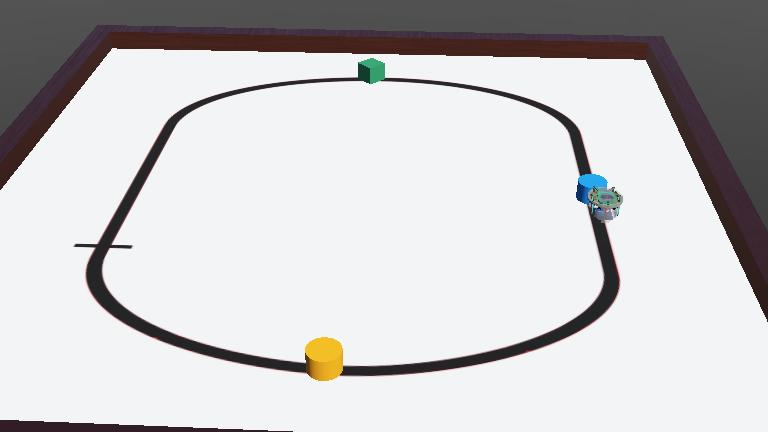
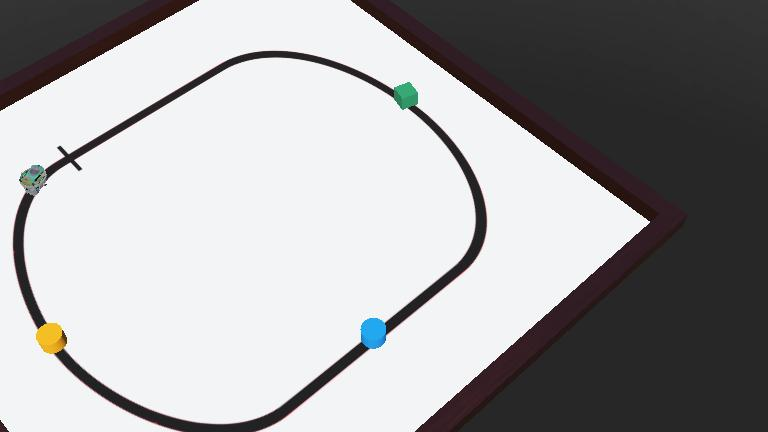
feat(fitness): completely new approach

diff --git a/visualise/mat.py b/visualise/mat.py
@@ -4,18 +4,26 @@ from matplotlib.widgets import Slider, CheckButtons, Button
 import numpy as np
 from matplotlib import colors
 from matplotlib.animation import FuncAnimation
-from mat_utils import brighten_color, get_latest_robot_position_file
+from mat_utils import brighten_color, get_latest_robot_position_folder
 import sys
 
 # --- Initial parameters ---
 directory = "../controllers/supervisorGA_starter/data/"
 if len(sys.argv) > 1:
-    filename = sys.argv[1]
+    arg = sys.argv[1]
+    # if "dir" is -1, takes the 1 and not 0, if "dir" is -2, takes the 2 and not 1, ...
+    try:
+        id = int(arg)
+    except ValueError:
+        pass
+    if isinstance(id, int):
+        foldername = get_latest_robot_position_folder(directory, id=abs(id))
+    else:
+        foldername = str(arg)
 else:
-    filename = get_latest_robot_position_file(directory)
-csv_file = f"{directory}{filename}"
-gen_filename = filename.replace("robot_positions_", "generation_data_")
-gen_csv_file = f"{directory}{gen_filename}"
+    foldername = get_latest_robot_position_folder(directory)
+csv_file = f"{directory}{foldername}/robot_position.csv"
+gen_csv_file = f"{directory}{foldername}/genome_data.csv"
 df_info = pd.read_csv(csv_file, usecols=["generation", "population"])
 df_new_global = None  # for hover annotation
 df_gen_info = pd.read_csv(gen_csv_file)
@@ -47,6 +55,7 @@ def load_generation_mem(generation, pops, step):
         dfg = dfg[dfg["population"].isin(pops)]
     return dfg.iloc[::step]
 
+
 def load_generation_info_mem(generation):
     """Return generation info row for generation."""
     dfg = df_gen_info[df_gen_info["generation"] == generation]
@@ -55,6 +64,7 @@ def load_generation_info_mem(generation):
 
 # --- Plot setup ---
 fig, ax = plt.subplots(figsize=(10, 8))
+fig.canvas.manager.set_window_title(foldername)
 plt.subplots_adjust(left=0.1, bottom=0.40, right=0.7)  # space for widgets
 
 sc = ax.scatter(
@@ -82,7 +92,9 @@ slider_gen = Slider(
 
 # --- Slider for downsampling ---
 ax_down_sample_step = plt.axes([0.1, 0.15, 0.65, 0.03])
-slider_downsample_step = Slider(ax_down_sample_step, "Downsample Step", 1, 50, valinit=initial_step, valstep=1)
+slider_downsample_step = Slider(
+    ax_down_sample_step, "Downsample Step", 1, 50, valinit=initial_step, valstep=1
+)
 
 
 # --- Slider for population (single numeric picker) ---
@@ -159,6 +171,7 @@ annot = ax.annotate(
 )
 annot.set_visible(False)
 
+
 def build_animation_data(generation, selected_pop_list, per_pop_downsample=1):
     """
     Build anim_data and anim_max_frames for the current generation and selection.
@@ -200,6 +213,7 @@ def build_animation_data(generation, selected_pop_list, per_pop_downsample=1):
         slider_anim_frame.set_val(0)  # reset to start
     if anim_max_frames == 0:
         anim_max_frames = 1
+
 
 def update(val):
     """
@@ -259,7 +273,7 @@ def update(val):
     # ax.set_title(
     #     f"Generation {gen} — {len(selected_pops_local)} populations — {len(df_new)} points"
     # )
-    
+
     ax.set_title(
         f"Generation {gen} — {len(selected_pops_local)} populations — {len(df_new)} points",
         pad=20,
@@ -412,6 +426,7 @@ def animate_frame(i):
     slider_anim_frame.set_val(anim_frame)
     return (sc,)
 
+
 def toggle_animation(label):
     # when checkbox toggled
     if animate_check.get_status()[0]:
@@ -424,7 +439,9 @@ def toggle_animation(label):
                 for lbl, state in zip(pop_labels, pop_check.get_status())
                 if state
             ]
-            + [val] if val != -1 else [],
+            + [val]
+            if val != -1
+            else [],
             per_pop_downsample=1,
         )
         step_button.ax.set_visible(True)
@@ -435,6 +452,7 @@ def toggle_animation(label):
         slider_anim_frame.ax.set_visible(False)
         # restore static rendering for current generation & selection
         update(None)
+
 
 def step_once(event):
     # advance one animation frame (works even if not animating)
@@ -448,6 +466,7 @@ def on_anim_slider_changed(val):
     global anim_frame
     anim_frame = int(val)
     render_animation_frame(anim_frame)
+
 
 def update_annot(idx, df_source, x, y):
     """Update annotation text and position."""
@@ -478,6 +497,7 @@ def update_annot(idx, df_source, x, y):
     annot.get_bbox_patch().set_facecolor("white")
     annot.get_bbox_patch().set_alpha(0.9)
 
+
 def on_hover(event):
     if event.inaxes != ax:
         annot.set_visible(False)
@@ -496,6 +516,7 @@ def on_hover(event):
         if annot.get_visible():
             annot.set_visible(False)
             fig.canvas.draw_idle()
+
 
 def on_point_click(event):
     if event.inaxes != ax:
@@ -521,6 +542,7 @@ def on_point_click(event):
             elif status:
                 pop_check.set_active(i)
         update(None)
+
 
 # Connect controls
 slider_gen.on_changed(update)

diff --git a/controllers/supervisorGA_starter/supervisorGA_starter.py b/controllers/supervisorGA_starter/supervisorGA_starter.py
@@ -19,7 +19,8 @@ from ga_parameters import (
     INITIAL_TRANS,
     CROSSOVER_RATE,
     TOURNAMENT_K,
-    MUTATION_RATE
+    MUTATION_RATE,
+    EXPERIMENT_TIME
 )
 
 import time
@@ -28,7 +29,7 @@ class SupervisorGA:
         # Simulation Parameters
         # Please, do not change these parameters
         self.time_step = 32  # ms
-        self.time_experiment = 30  # s
+        self.time_experiment = EXPERIMENT_TIME  # s
 
         # Initiate Supervisor Module
         self.supervisor = Supervisor()
@@ -75,7 +76,7 @@ class SupervisorGA:
         self.display.drawText("Fitness (Best - Red)", 0, 0)
         self.display.drawText("Fitness (Average - Green)", 0, 10)
 
-        self.data_filename = ""
+        self.data_foldername = ""
 
     def createRandomPopulation(self, genotype=None):
         # Wait until the supervisor receives the size of the genotypes (number of weights)
@@ -167,7 +168,8 @@ class SupervisorGA:
             state["population"] = population
 
         df = pd.DataFrame(robot_state_list)
-        df.to_csv(self.data_filename, mode="a", index=False, header=not os.path.exists(self.data_filename))
+        robot_pos_filename = self.data_foldername + "robot_position.csv"
+        df.to_csv(robot_pos_filename, mode="a", index=False, header=not os.path.exists(robot_pos_filename))
 
         # Measure fitness
         fitness = self.receivedFitness
@@ -185,8 +187,13 @@ class SupervisorGA:
             }
         )
 
-        genome_filename = self.data_filename.replace("robot_position", "genome_data")
+        genome_filename = self.data_foldername + "genome_data.csv"
         df_genome.to_csv(genome_filename, mode="a", index=False, header=not os.path.exists(genome_filename))
+        os.makedirs(self.data_foldername + "genomes/genotype/gen{}".format(generation), exist_ok=True)
+        numpy.save(
+            self.data_foldername + "genomes/genotype/gen{}/g{}pop{}.npy".format(generation, generation, population),
+            genotype,
+        )
 
         del robot_state_list
         del df
@@ -213,6 +220,10 @@ class SupervisorGA:
         # Evaluation genotype
         self.run_seconds(self.time_experiment)
 
+        # Measure fitness
+        fitness = self.receivedFitness
+        print(f"X.Fitness: {fitness:.2f}")
+
     def run_optimization(self):
         # Wait until the number of weights is updated
         while self.num_weights == 0:
@@ -221,7 +232,7 @@ class SupervisorGA:
 
         print("starting GA optimization ...\n")
         # Time for filename
-        self.data_filename = "data/robot_position_{}.csv".format(time.strftime("%Y%m%d-%H%M%S"))
+        self.data_foldername = "data/{}/".format(time.strftime("%Y%m%d-%H%M%S"))
         # store GA hyperparameters
         hyperparameters = {
             "num_generations": self.num_generations,
@@ -231,7 +242,10 @@ class SupervisorGA:
             "tournament_k": TOURNAMENT_K,
             "mutation_rate": MUTATION_RATE,
         }
-        with open(self.data_filename.replace("robot_position", "ga_parameters").replace(".csv", ".json"), "w") as f:
+        os.makedirs(self.data_foldername, exist_ok=True)
+        os.makedirs(self.data_foldername + "genomes/", exist_ok=True)
+        ga_params_filename = self.data_foldername + "ga_parameters.json"
+        with open(ga_params_filename, "w") as f:
             json.dump(hyperparameters, f, indent=4)
 
         # For each Generation
@@ -260,7 +274,7 @@ class SupervisorGA:
                     current_population, self.num_elite
                 )
 
-        print(f"GA optimization terminated, saved data to {self.data_filename}\n")
+        print(f"GA optimization terminated, saved data to {self.data_foldername}\n")
 
     def draw_scaled_line(self, generation, y1, y2):
         # Define the scale of the fitness plot
@@ -309,7 +323,12 @@ if __name__ == "__main__":
                 "Demo: (R|r)un Best Individual or (S|s)earch for New Best Individual:"
             )
         elif resp == 81 or resp == 65619:  # Q or q key
-            gaModel.run_demo("Best_reference.npy")
+            gaModel.run_demo("g5pop0.npy")
+            print(
+                "Reference: (R|r)un Best Individual or (S|s)earch for New Best Individual:"
+            )
+        elif resp == 80 or resp == 65619:  # P or p key
+            gaModel.run_demo("bad_bf.npy")
             print(
                 "Reference: (R|r)un Best Individual or (S|s)earch for New Best Individual:"
             )

diff --git a/controllers/epuck_starter/epuck_starter.py b/controllers/epuck_starter/epuck_starter.py
@@ -228,30 +228,33 @@ class Controller:
         # self.velocity_left and self.velocity_right are in range [-1, 1]
 
         FOLLOW_LINE_WEIGHT = 1
-        OBSTACLE_AVOIDANCE_WEIGHT = 0.10
+        OBSTACLE_AVOIDANCE_WEIGHT = 0.15
 
         printing = self.is_printing()
 
         forwardFitness = (self.velocity_left + self.velocity_right) / 2
-        followLineFitness = max(0.4, gs_left - gs_right)
+        if forwardFitness > 0:
+            forwardFitness = forwardFitness ** (1/2)
+        followLineFitness = max(0.4, gs_right)
+        followLineFitness -= max(0.2, gs_left)
         avoidCollisionFitness = 0
         for ds in self.inputs[3:11]:
-            avoidCollisionFitness = max(avoidCollisionFitness, ds)
-        # if avoidCollisionFitness > 0:
-        #     self.steps_avoiding += 1
-        # else:
-        #     self.steps_avoiding = 0
-        spinningFitness = 1 - (abs(self.velocity_left - self.velocity_right) / 2) ** (1/5)
+            avoidCollisionFitness += ds
+        avoidCollisionFitness = min(1, avoidCollisionFitness)
+        if avoidCollisionFitness > 0:
+            self.steps_avoiding += 1
+        else:
+            if self.steps_avoiding > 0:
+                self.steps_avoiding -= 2
+            else:
+                self.steps_avoiding = 0
+        wheelDiff = abs(self.velocity_left - self.velocity_right) / 2
+        spinningFitness = (2 - 3 ** (wheelDiff)) / 1 # 0.51 - 0.64
+        # spinningFitness = (3 - 3 ** (wheelDiff)) / 2 # 0.53 - 0.68
 
         lineFitness = forwardFitness * followLineFitness * spinningFitness * (1 - avoidCollisionFitness)
-        collisionFitness = 1
-        if avoidCollisionFitness > 0.2:
-            collisionFitness *= max(1, -math.log2(avoidCollisionFitness))
-        else:
-            collisionFitness *= 0
-
-        lineFitness *= FOLLOW_LINE_WEIGHT
-        collisionFitness *= OBSTACLE_AVOIDANCE_WEIGHT
+        collisionFitness = avoidCollisionFitness * OBSTACLE_AVOIDANCE_WEIGHT
+        # * max(0.8, min(1, (1.2 - self.steps_avoiding / 1000)))
 
         ### Define the fitness function of this iteration which should be a combination of the previous functions
         combinedFitness = lineFitness + collisionFitness

diff --git a/controllers/supervisorGA_starter/ga_parameters.py b/controllers/supervisorGA_starter/ga_parameters.py
@@ -1,10 +1,12 @@
-NUM_GENERATIONS = 100  # Total number of generations to run
-POPULATION_SIZE = 50  # Total number of individuals in the population
-NUM_ELITE = 8  # Number of elite individuals to carry over to the next generation
+NUM_GENERATIONS = 200  # Total number of generations to run
+POPULATION_SIZE = 30  # Total number of individuals in the population
+NUM_ELITE = 6  # Number of elite individuals to carry over to the next generation
 TOURNAMENT_K = 5  # Number of individuals in tournament selection
 
-CROSSOVER_RATE = 20  # Probability of crossover in percentage
-MUTATION_RATE = 20  # Probability of mutation in percentage
+CROSSOVER_RATE = 50  # Probability of crossover in percentage
+MUTATION_RATE = 30  # Probability of mutation in percentage
+
+EXPERIMENT_TIME = 100  # Duration of each experiment in seconds
 
 INITIAL_TRANS = [0.47, 0.16, 0]
 INITIAL_ROT = [0, 0, 1, 1.57]

diff --git a/visualise/mat_utils.py b/visualise/mat_utils.py
@@ -3,9 +3,16 @@ import colorsys
 import re
 from datetime import datetime
 
-def get_latest_robot_position_file(dir):
-    files = [f for f in os.listdir(dir) if re.match(r"robot_position_\d{8}-\d{6}\.csv$", f)]
-    return max(files, key=lambda f: datetime.strptime(f.split("_")[2].split(".")[0], "%Y%m%d-%H%M%S")) if files else None
+
+def get_latest_robot_position_folder(dir, id=0):
+    files = [f for f in os.listdir(dir) if re.match(r"\d{8}-\d{6}$", f)]
+    files.sort(
+        key=lambda f: datetime.strptime(f, "%Y%m%d-%H%M%S"), reverse=True
+    )
+    if id != 0:
+        return files[id - 1] if len(files) >= id else None
+    return files[0] if files else None
+
 
 def brighten_color(color, factor=0.3):
     r, g, b, a = color

diff --git a/video_script.md b/video_script.md
@@ -1,0 +1,52 @@
+# Video Presentation Requirements
+Your group must submit a 10-minute video showcasing your work. The format is:
+Structure:
+Total Duration: 10 minutes
+Group Size: 4 students
+Presentation Breakdown:
+4 minutes: Two students present the BBR approach.
+4 minutes: The other two students present the ER approach.
+2 minutes: Two students (one from the BBR and one from the ER approach) discuss
+the contrasts and similarities between the two approaches.
+Participation
+Every student in the group must speak during the video. You may use slides, screen
+recordings of simulations, your poster, or annotated visuals to support your
+explanation.
+
+
+# Genetic based training of e-puck to follow a line and avoid obstacles
+
+## Main fitness components
+
+- Following the line (ground sensor on black)
+- Moving forward (wheel spinning faster is better)
+- Avoiding obstacles (using distance sensors)
+- Avoiding spinning in place (wheels turning at different speeds)
+
+##
+
+Here's e-puck, a small mobile robot equipped with ground sensors to detect lines and distance sensors to sense obstacles.
+Today, we're going to see how different approaches can be use to create a controller for that robot.
+
+### BBR
+
+The first method is Behaviour-based Robotics, or BBR. The idea is to design and implement simple behaviours that can be combined to achieve complex tasks.
+For example, we can create a behaviour for following the line, another for avoiding obstacles, and one to join back the line. Each behaviour will generate motor commands based on the sensor inputs.
+
+### ER
+
+#### bullet points
+
+- Arena (line, obstacles, wall)
+- ER in general (when and how to use it)
+  - 
+- 
+
+#### Script
+
+The arena is a square composed of a black line on a white surface with walls at the borders. 3 different obstacles are placed on the line to make the task more challenging.
+We used an evolutionary algorithms to automatically generate robot controllers. Instead of manually designing behaviours, we define a fitness function that evaluates how well a controller performs the desired task. The evolutionary algorithm then iteratively improves the controllers based on their fitness scores.
+In our case, this is called Evolutionary Robotics, or ER. It has shown great results
+
+The first step was to understand the code given to us
+We then experimented with different fitness functions.
